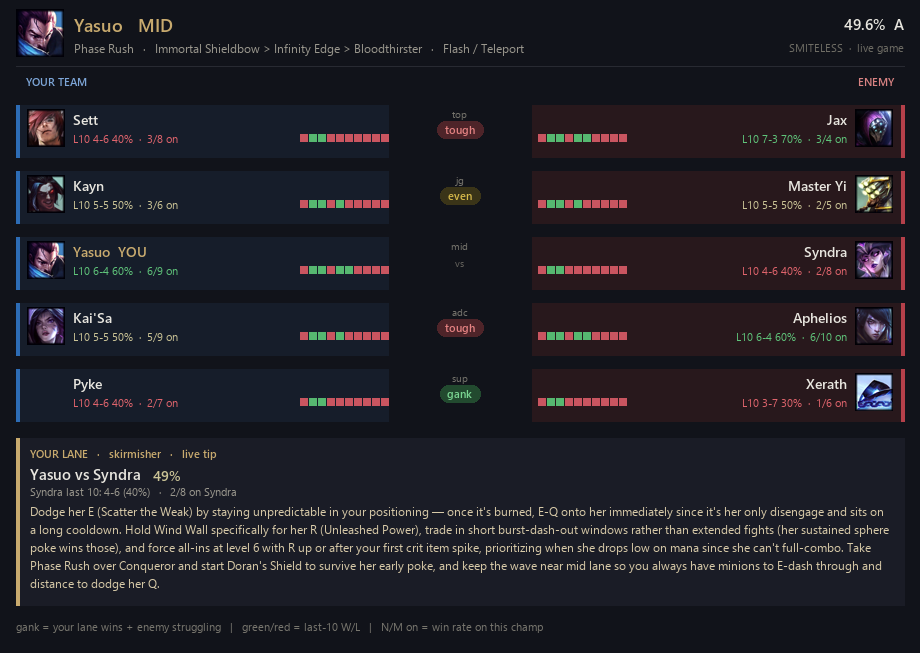
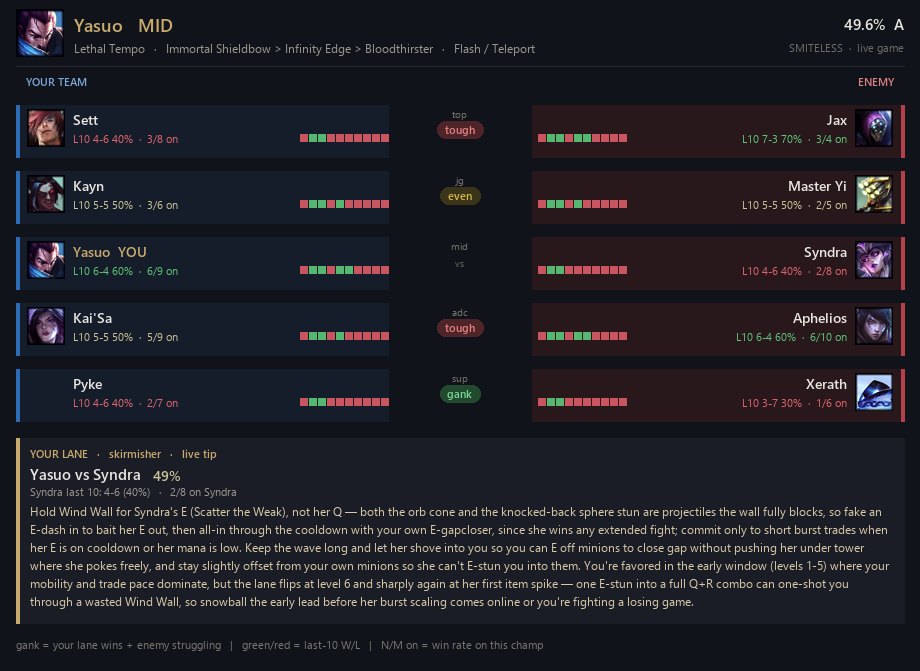
Matchup tips: forbid rune/item/build advice (was hallucinating, e.g. Yasuo Phase Rush)
The tip prompt asked for "one build or summoner note", and the LLM produced wrong/
outdated build advice (recommended Phase Rush + Doran's Shield for Yasuo, who runs
Lethal Tempo). Builds are already shown authoritatively from live op.gg data in the
header, so the tip must NOT touch them. New prompt restricts the tip to pure lane
mechanics (abilities to dodge/bait, trades, wave, generic level/item-spike timings)
and explicitly forbids naming any rune, keystone, summoner, or item. Cleared the
poisoned cache; regenerated tips are clean. Updated hero image.

diff --git a/lolmatchup.py b/lolmatchup.py
@@ -48,11 +48,14 @@ def generate_tip(my_name, my_key, opp_name, opp_key, role, patch):
     """Generate (web-search, current-patch) + cache. Returns (text, error)."""
     prompt = (
         f"Patch {patch}. Search the web for the CURRENT {my_name} vs {opp_name} {role} matchup "
-        f"(Mobafire, u.gg, Mobalytics, Reddit). In 2-3 sentences give a SPECIFIC, up-to-date tip: "
-        f"which enemy ability/abilities to dodge or bait and how, the trade and wave pattern, when "
-        f"you win vs lose (level/item spikes), and one build or summoner note. If you can't find "
-        f"anything current, use your own best knowledge. Plain text only - no preamble, no markdown, "
-        f"no bullet points, no headers."
+        f"(Mobafire, u.gg, Mobalytics, Reddit). In 2-3 sentences, give a SPECIFIC, up-to-date tip on "
+        f"HOW TO PLAY THE LANE: which enemy ability/abilities to dodge or bait and how, the trade and "
+        f"wave pattern, and when you win vs when you lose (you may reference generic timings like "
+        f"'level 6' or 'your first item spike'). "
+        f"CRITICAL: do NOT recommend or name ANY runes, keystones, summoner spells, or items - the "
+        f"live op.gg build is shown to the player separately and the LLM gets builds wrong. Keep it "
+        f"purely to lane mechanics and decisions. If you can't find current info, use your own best "
+        f"knowledge. Plain text only - no preamble, no markdown, no bullet points, no headers."
     )
     text, err = lc.call_claude(prompt, allow_tools="WebSearch,WebFetch", timeout=170)
     if not text:
